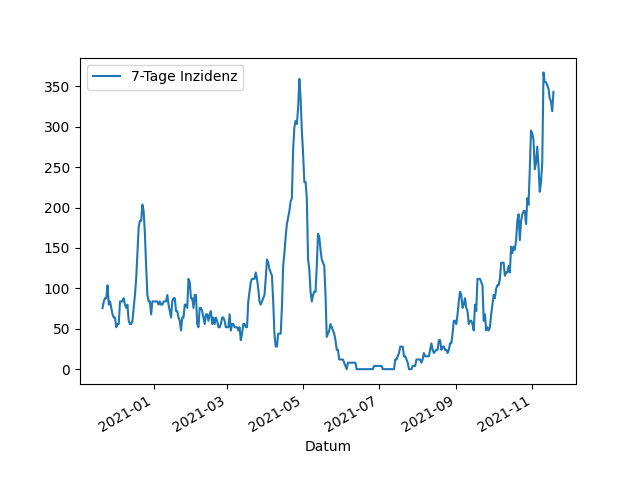
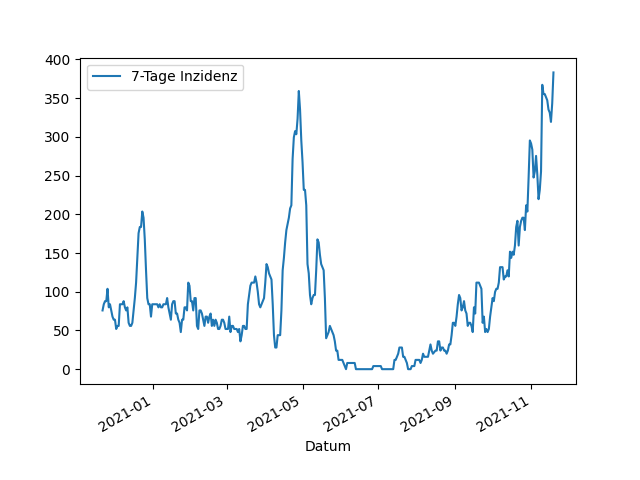
Update images

diff --git a/_includes/aktuelle_inzidenz.md b/_includes/aktuelle_inzidenz.md
@@ -1,1 +1,1 @@
-343,3
+383,2
